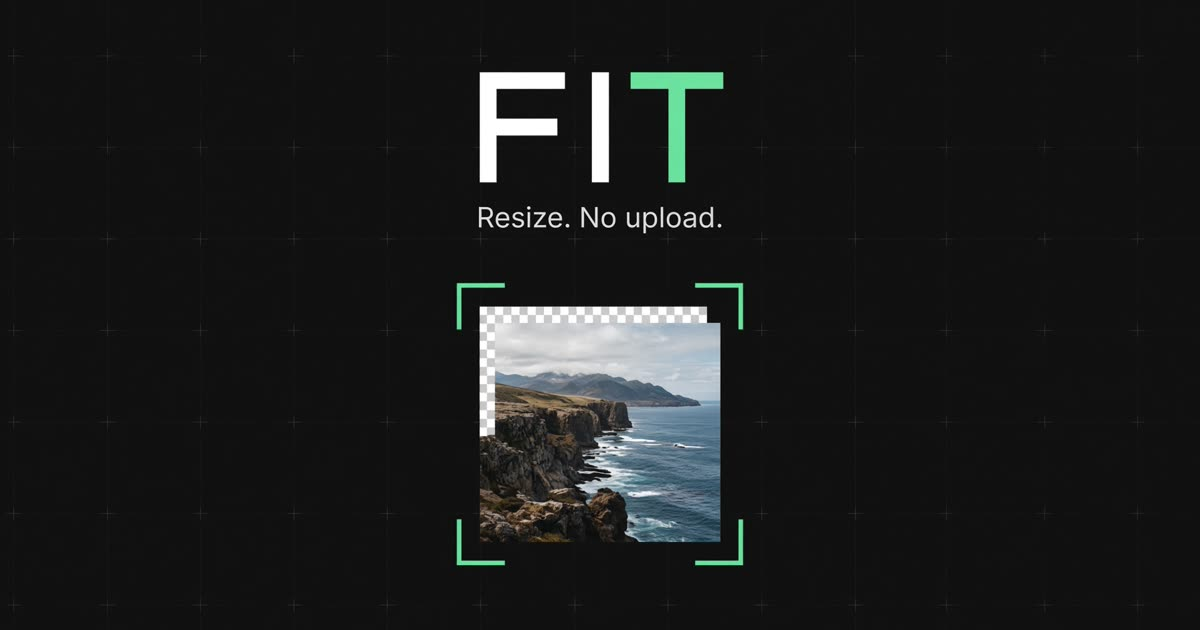
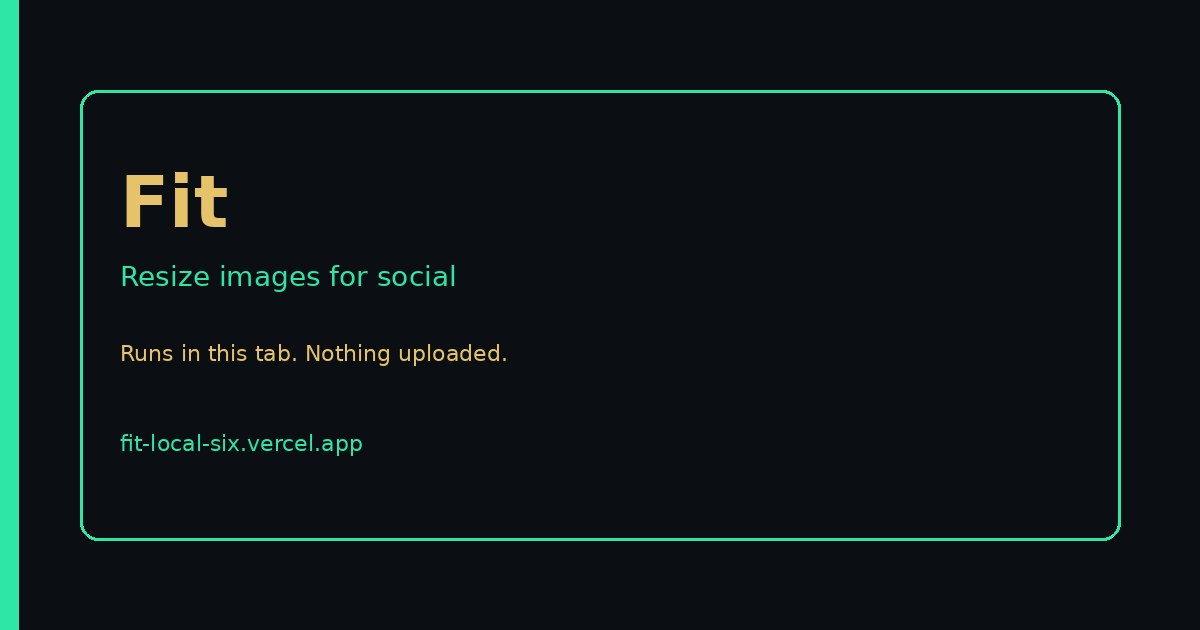
seo+aeo: META3 emit — llms.txt, OG, AI crawlers
Answer-engine directory, 1200×630 og.jpg, GPTBot/ClaudeBot Allow.
Engine unchanged. LIVE stays off.

diff --git a/src/lib/seo.tsx b/src/lib/seo.tsx
@@ -18,6 +18,7 @@ export function JsonLd() {
     url: SITE_ORIGIN,
     applicationCategory: "MultimediaApplication",
     operatingSystem: "Any",
+    isAccessibleForFree: true,
     offers: { "@type": "Offer", price: "0", priceCurrency: "USD" },
     description:
       "Resize photos for Instagram, YouTube and X in the browser. Exact pixels, social presets, batch ZIP. No upload, no signup, no watermark.",
@@ -28,8 +29,16 @@ export function JsonLd() {
       url: SITE_ORIGIN,
     },
   };
+  const website = {
+    "@context": "https://schema.org",
+    "@type": "WebSite",
+    name: "Fit",
+    url: SITE_ORIGIN,
+    inLanguage: "en",
+  };
   return (
     <>
+      <script type="application/ld+json" dangerouslySetInnerHTML={{ __html: JSON.stringify(website) }} />
       <script type="application/ld+json" dangerouslySetInnerHTML={{ __html: JSON.stringify(faq) }} />
       <script type="application/ld+json" dangerouslySetInnerHTML={{ __html: JSON.stringify(app) }} />
     </>

diff --git a/src/routes/__root.tsx b/src/routes/__root.tsx
@@ -19,6 +19,13 @@ export const Route = createRootRoute({
           "Resize photos for Instagram, YouTube and X — free, private, no upload. Exact pixels, social presets, Fill / Fit / Stretch, batch ZIP. No signup, no watermark.",
       },
       { name: "theme-color", content: "#0B0F14" },
+      { property: "og:type", content: "website" },
+      { property: "og:site_name", content: 'Fit' },
+      { property: "og:image", content: "https://fit-local-six.vercel.app/og.jpg" },
+      { property: "og:image:width", content: "1200" },
+      { property: "og:image:height", content: "630" },
+      { name: "twitter:card", content: "summary_large_image" },
+      { name: "twitter:image", content: "https://fit-local-six.vercel.app/og.jpg" },
       { name: "robots", content: "index, follow" },
       { name: "google-adsense-account", content: "ca-pub-7636435144500691" },
       {

diff --git a/src/routes/robots[.]txt.ts b/src/routes/robots[.]txt.ts
@@ -4,7 +4,8 @@ export const Route = createFileRoute("/robots.txt")({
   server: {
     handlers: {
       GET: async ({ request }: { request: Request }) => {
-        const origin = new URL(request.url).origin;
+        const origin = "https://fit-local-six.vercel.app";
+        void request;
         const body = `User-agent: *
 Allow: /
 
@@ -18,6 +19,30 @@ User-agent: AdsBot-Google
 Allow: /
 
 User-agent: Yandex
+Allow: /
+
+User-agent: Google-Extended
+Allow: /
+
+User-agent: GPTBot
+Allow: /
+
+User-agent: ChatGPT-User
+Allow: /
+
+User-agent: ClaudeBot
+Allow: /
+
+User-agent: anthropic-ai
+Allow: /
+
+User-agent: Applebot
+Allow: /
+
+User-agent: Applebot-Extended
+Allow: /
+
+User-agent: PerplexityBot
 Allow: /
 
 Sitemap: ${origin}/sitemap.xml

diff --git a/src/routes/sitemap[.]xml.ts b/src/routes/sitemap[.]xml.ts
@@ -15,6 +15,7 @@ const PATHS = [
   "/about",
   "/privacy",
   "/terms",
+  "/llms.txt",
 ];
 
 export const Route = createFileRoute("/sitemap.xml")({
